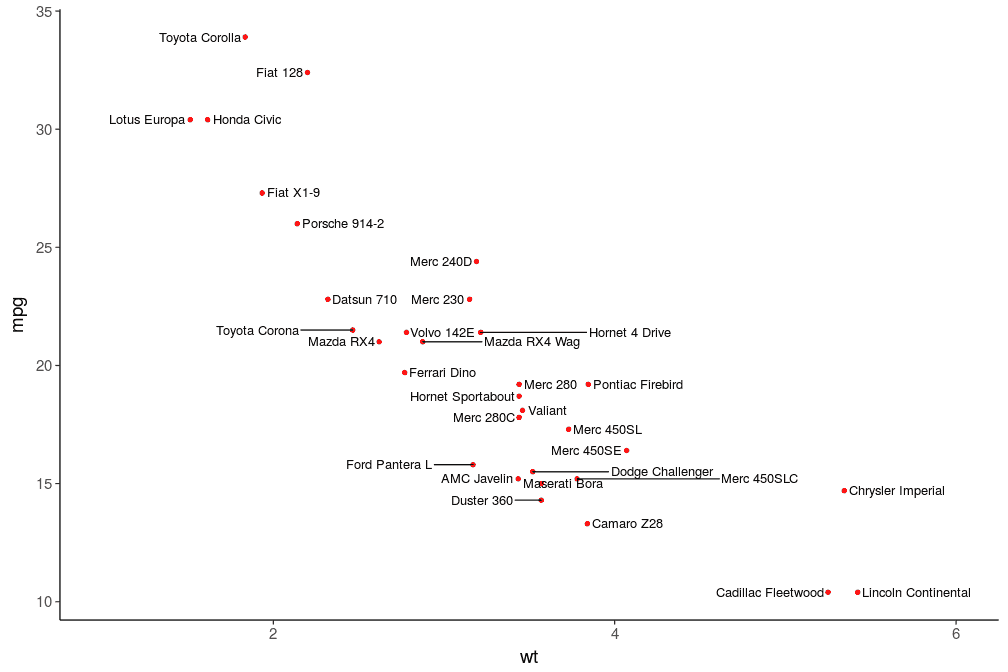
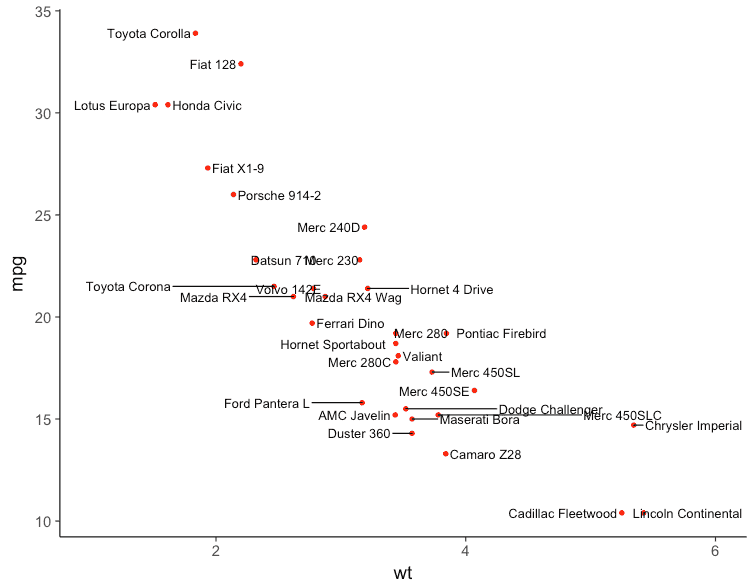
adjustments to the new "direction" feature
- initial jitter added to labels only in the desired direction

- add Alicia Schep as contributor

diff --git a/src/repel_boxes.cpp b/src/repel_boxes.cpp
@@ -34,7 +34,7 @@ NumericVector centroid(NumericVector b) {
 NumericVector intersect_line_rectangle(
     NumericVector p1, NumericVector p2, NumericVector b
 ) {
-  double slope = (p2[1] - p1[1]) / (p2[0] - p1[0]);
+  double slope = (p2[1] - p1[1]) / std::max(p2[0] - p1[0], 0.0004);
   double intercept = p2[1] - p2[0] * slope;
   NumericMatrix retval(4, 2);
   std::fill(retval.begin(), retval.end(), -INFINITY);
@@ -423,10 +423,19 @@ DataFrame repel_boxes(
   std::vector<double> ratios(n_texts);
   std::vector<Point> original_centroids(n_texts);
   for (int i = 0; i < n_texts; i++) {
-    TextBoxes[i].x1 = boxes(i, 0) + r[i];
-    TextBoxes[i].y1 = boxes(i, 1) + r[i];
-    TextBoxes[i].x2 = boxes(i, 2) + r[i];
-    TextBoxes[i].y2 = boxes(i, 3) + r[i];
+    TextBoxes[i].x1 = boxes(i, 0);
+    TextBoxes[i].x2 = boxes(i, 2);
+    TextBoxes[i].y1 = boxes(i, 1);
+    TextBoxes[i].y2 = boxes(i, 3);
+    // Don't add jitter if the user wants to repel in just one direction.
+    if (direction != "y") {
+      TextBoxes[i].x1 += r[i];
+      TextBoxes[i].x2 += r[i];
+    }
+    if (direction != "x") {
+      TextBoxes[i].y1 += r[i];
+      TextBoxes[i].y2 += r[i];
+    }
     // height over width
     ratios[i] = (TextBoxes[i].y2 - TextBoxes[i].y1)
       / (TextBoxes[i].x2 - TextBoxes[i].x1);

diff --git a/vignettes/ggrepel.md b/vignettes/ggrepel.md
@@ -1,7 +1,7 @@
 ---
 title: "ggrepel Usage Examples"
 author: "Kamil Slowikowski"
-date: "2017-02-11"
+date: "2017-02-12"
 output: rmarkdown::html_vignette
 vignette: >
   %\VignetteIndexEntry{ggrepel Usage Examples}
@@ -240,6 +240,37 @@ ggplot() +
 
 <img src="https://github.com/slowkow/ggrepel/blob/master/vignettes/figures/ggrepel/label_limits-1.png" title="plot of chunk label_limits" alt="plot of chunk label_limits" width="700" />
 
+### Limit the direction of label movement
+
+Use `direction` to limit label movement to the x-axis (left and right) or y-axis
+(up and down). The options are "both" (default), "x", or "y".
+
+
+```r
+set.seed(42)
+
+ggplot(mtcars) +
+  geom_point(aes(wt, mpg), color = 'red') +
+  geom_text_repel(aes(wt, mpg, label = rownames(mtcars)), direction = "x") +
+  theme_classic(base_size = 16) + xlim(1,6)
+```
+
+<img src="https://github.com/slowkow/ggrepel/blob/master/vignettes/figures/ggrepel/direction_x-1.png" title="plot of chunk direction_x" alt="plot of chunk direction_x" width="700" />
+
+Setting `direction` to "y":
+
+
+```r
+set.seed(42)
+
+ggplot(mtcars) +
+  geom_point(aes(wt, mpg), color = 'red') +
+  geom_text_repel(aes(wt, mpg, label = rownames(mtcars)), direction = "y") +
+  theme_classic(base_size = 16)
+```
+
+<img src="https://github.com/slowkow/ggrepel/blob/master/vignettes/figures/ggrepel/direction_y-1.png" title="plot of chunk direction_y" alt="plot of chunk direction_y" width="700" />
+
 ### Line plot
 
 
@@ -261,17 +292,6 @@ ggplot(Orange, aes(age, circumference, color = Tree)) +
 ```
 
 <img src="https://github.com/slowkow/ggrepel/blob/master/vignettes/figures/ggrepel/line_plot-1.png" title="plot of chunk line_plot" alt="plot of chunk line_plot" width="700" />
-
-### Limiting direction in which labels can be adjusted
-
-In some cases it may be advantageous to only allow label positions to be moved in either the "x" or "y" directions, for example if the x or y position contains information.  To do so, one simply provides either "x" or "y" to the `direction` argument.
-
-<img src="https://github.com/slowkow/ggrepel/blob/master/vignettes/figures/ggrepel/direction_x-1.png" title="plot of chunk direction_x" alt="plot of chunk direction_x" width="700" />
-
-Setting `direction` to "y":
-
-<img src="https://github.com/slowkow/ggrepel/blob/master/vignettes/figures/ggrepel/direction_y-1.png" title="plot of chunk direction_y" alt="plot of chunk direction_y" width="700" />
-
 
 ### Volcano plot
 
@@ -406,16 +426,11 @@ sessionInfo()
 
 ```
 ## R version 3.3.2 (2016-10-31)
-## Platform: x86_64-pc-linux-gnu (64-bit)
-## Running under: Ubuntu 16.04.1 LTS
+## Platform: x86_64-apple-darwin13.4.0 (64-bit)
+## Running under: OS X Yosemite 10.10.5
 ## 
 ## locale:
-##  [1] LC_CTYPE=en_US.UTF-8       LC_NUMERIC=C              
-##  [3] LC_TIME=en_US.UTF-8        LC_COLLATE=en_US.UTF-8    
-##  [5] LC_MONETARY=en_US.UTF-8    LC_MESSAGES=en_US.UTF-8   
-##  [7] LC_PAPER=en_US.UTF-8       LC_NAME=C                 
-##  [9] LC_ADDRESS=C               LC_TELEPHONE=C            
-## [11] LC_MEASUREMENT=en_US.UTF-8 LC_IDENTIFICATION=C       
+## [1] en_US.UTF-8/en_US.UTF-8/en_US.UTF-8/C/en_US.UTF-8/en_US.UTF-8
 ## 
 ## attached base packages:
 ## [1] stats     graphics  grDevices utils     datasets  methods   base     
@@ -424,7 +439,7 @@ sessionInfo()
 ## [1] gridExtra_2.2.1 ggrepel_0.6.7   ggplot2_2.2.1   knitr_1.15.1   
 ## 
 ## loaded via a namespace (and not attached):
-##  [1] Rcpp_0.12.9      codetools_0.2-15 digest_0.6.12    assertthat_0.1  
+##  [1] Rcpp_0.12.8      codetools_0.2-15 digest_0.6.11    assertthat_0.1  
 ##  [5] grid_3.3.2       plyr_1.8.4       gtable_0.2.0     magrittr_1.5    
 ##  [9] evaluate_0.10    scales_0.4.1     highr_0.6        stringi_1.1.2   
 ## [13] lazyeval_0.2.0   labeling_0.3     tools_3.3.2      stringr_1.1.0   

diff --git a/NEWS.md b/NEWS.md
@@ -1,4 +1,14 @@
 
+ggrepel 0.6.8 2017-02-12
+----------------------------------------------------------------
+
+NEW FEATURE (thanks to @AliciaSchep)
+
+* Constrain repulsion force to x-axis "x" or y-axis "y" with `direction` in
+  `geom_text_repel()` and `geom_label_repel()`. See [pull 68][68].
+
+[68]: https://github.com/slowkow/ggrepel/pull/68
+
 ggrepel 0.6.7 2017-01-09
 ----------------------------------------------------------------
 
